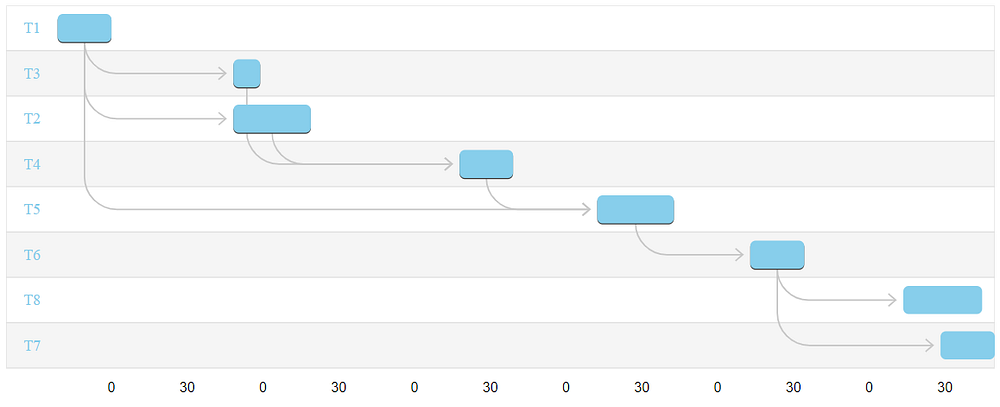
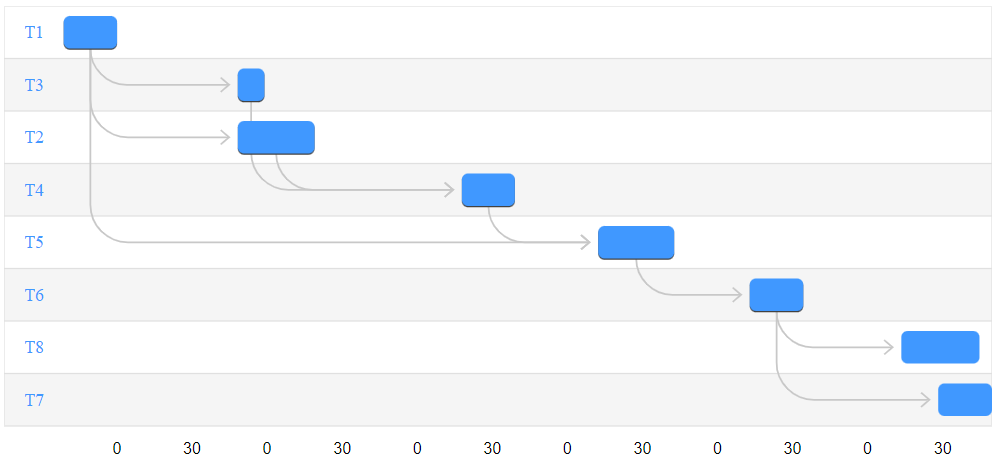
updated colors

diff --git a/output/wwa43176-TASKS.PUBLIC.T1-1680125626365.html b/output/wwa43176-TASKS.PUBLIC.T1-1680125626365.html
@@ -20,14 +20,14 @@
             data.addColumn("string", "Dependencies");
 
             data.addRows([
-[ "T1", "T1", new Date("2023-03-29 14:33:46.365000"), new Date("2023-03-29 14:35:00.025000"), null, 71, "" ],
-[ "T3", "T3", new Date("2023-03-29 14:35:00.025000"), new Date("2023-03-29 14:35:58.905000"), null, 81, "T1" ],
-[ "T2", "T2", new Date("2023-03-29 14:35:00.025000"), new Date("2023-03-29 14:36:18.945000"), null, 61, "T1" ],
-[ "T4", "T4", new Date("2023-03-29 14:36:18.945000"), new Date("2023-03-29 14:37:39.005000"), null, 73, "T2,T3" ],
-[ "T5", "T5", new Date("2023-03-29 14:37:39.005000"), new Date("2023-03-29 14:38:42.679000"), null, 52, "T1,T4" ],
-[ "T6", "T6", new Date("2023-03-29 14:38:42.679000"), new Date("2023-03-29 14:39:34.279000"), null, 58, "T5" ],
-[ "T8", "T8", new Date("2023-03-29 14:39:34.279000"), new Date("2023-03-29 14:40:44.699000"), null, 55, "T6" ],
-[ "T7", "T7", new Date("2023-03-29 14:39:34.279000"), new Date("2023-03-29 14:40:49.705000"), null, 71, "T6" ],]);
+[ "T1", "T1", new Date("2023-03-29 14:34:38.702000-07:00"), new Date("2023-03-29 14:35:00.025000-07:00"), null, 0, "" ],
+[ "T3", "T3", new Date("2023-03-29 14:35:48.282000-07:00"), new Date("2023-03-29 14:35:58.905000-07:00"), null, 0, "T1" ],
+[ "T2", "T2", new Date("2023-03-29 14:35:48.292000-07:00"), new Date("2023-03-29 14:36:18.945000-07:00"), null, 0, "T1" ],
+[ "T4", "T4", new Date("2023-03-29 14:37:17.830000-07:00"), new Date("2023-03-29 14:37:39.005000-07:00"), null, 0, "T2,T3" ],
+[ "T5", "T5", new Date("2023-03-29 14:38:12.337000-07:00"), new Date("2023-03-29 14:38:42.679000-07:00"), null, 0, "T1,T4" ],
+[ "T6", "T6", new Date("2023-03-29 14:39:12.898000-07:00"), new Date("2023-03-29 14:39:34.279000-07:00"), null, 0, "T5" ],
+[ "T8", "T8", new Date("2023-03-29 14:40:13.467000-07:00"), new Date("2023-03-29 14:40:44.699000-07:00"), null, 0, "T6" ],
+[ "T7", "T7", new Date("2023-03-29 14:40:28.208000-07:00"), new Date("2023-03-29 14:40:49.705000-07:00"), null, 0, "T6" ],]);
 
             var options = {
                 height: 500,
@@ -35,9 +35,9 @@
                     arrow: { color: "#c8c8c8" },
                     criticalPathEnabled: false,
                     palette: [{
-                        "color": "#87CEEB",
-                        "dark": "#d3d3d3",
-                        "light": "#c8c8c8"
+                        "color": "#4098ff",
+                        "dark": "#d8eaff",
+                        "light": "#4098ff"
                     }]
                  },
             };
@@ -46,7 +46,7 @@
                 document.getElementById("chart_div"));
             chart.draw(data, options);
 
-            setTimeout(() => { document.location.reload(); }, 3000);
+            // {{monitor}}
         }
     </script>
 </head>

diff --git a/templates/gantt-template.html b/templates/gantt-template.html
@@ -27,9 +27,9 @@
                     arrow: { color: "#c8c8c8" },
                     criticalPathEnabled: false,
                     palette: [{
-                        "color": "#87CEEB",
-                        "dark": "#d3d3d3",
-                        "light": "#c8c8c8"
+                        "color": "#4098ff",
+                        "dark": "#d8eaff",
+                        "light": "#4098ff"
                     }]
                  },
             };
